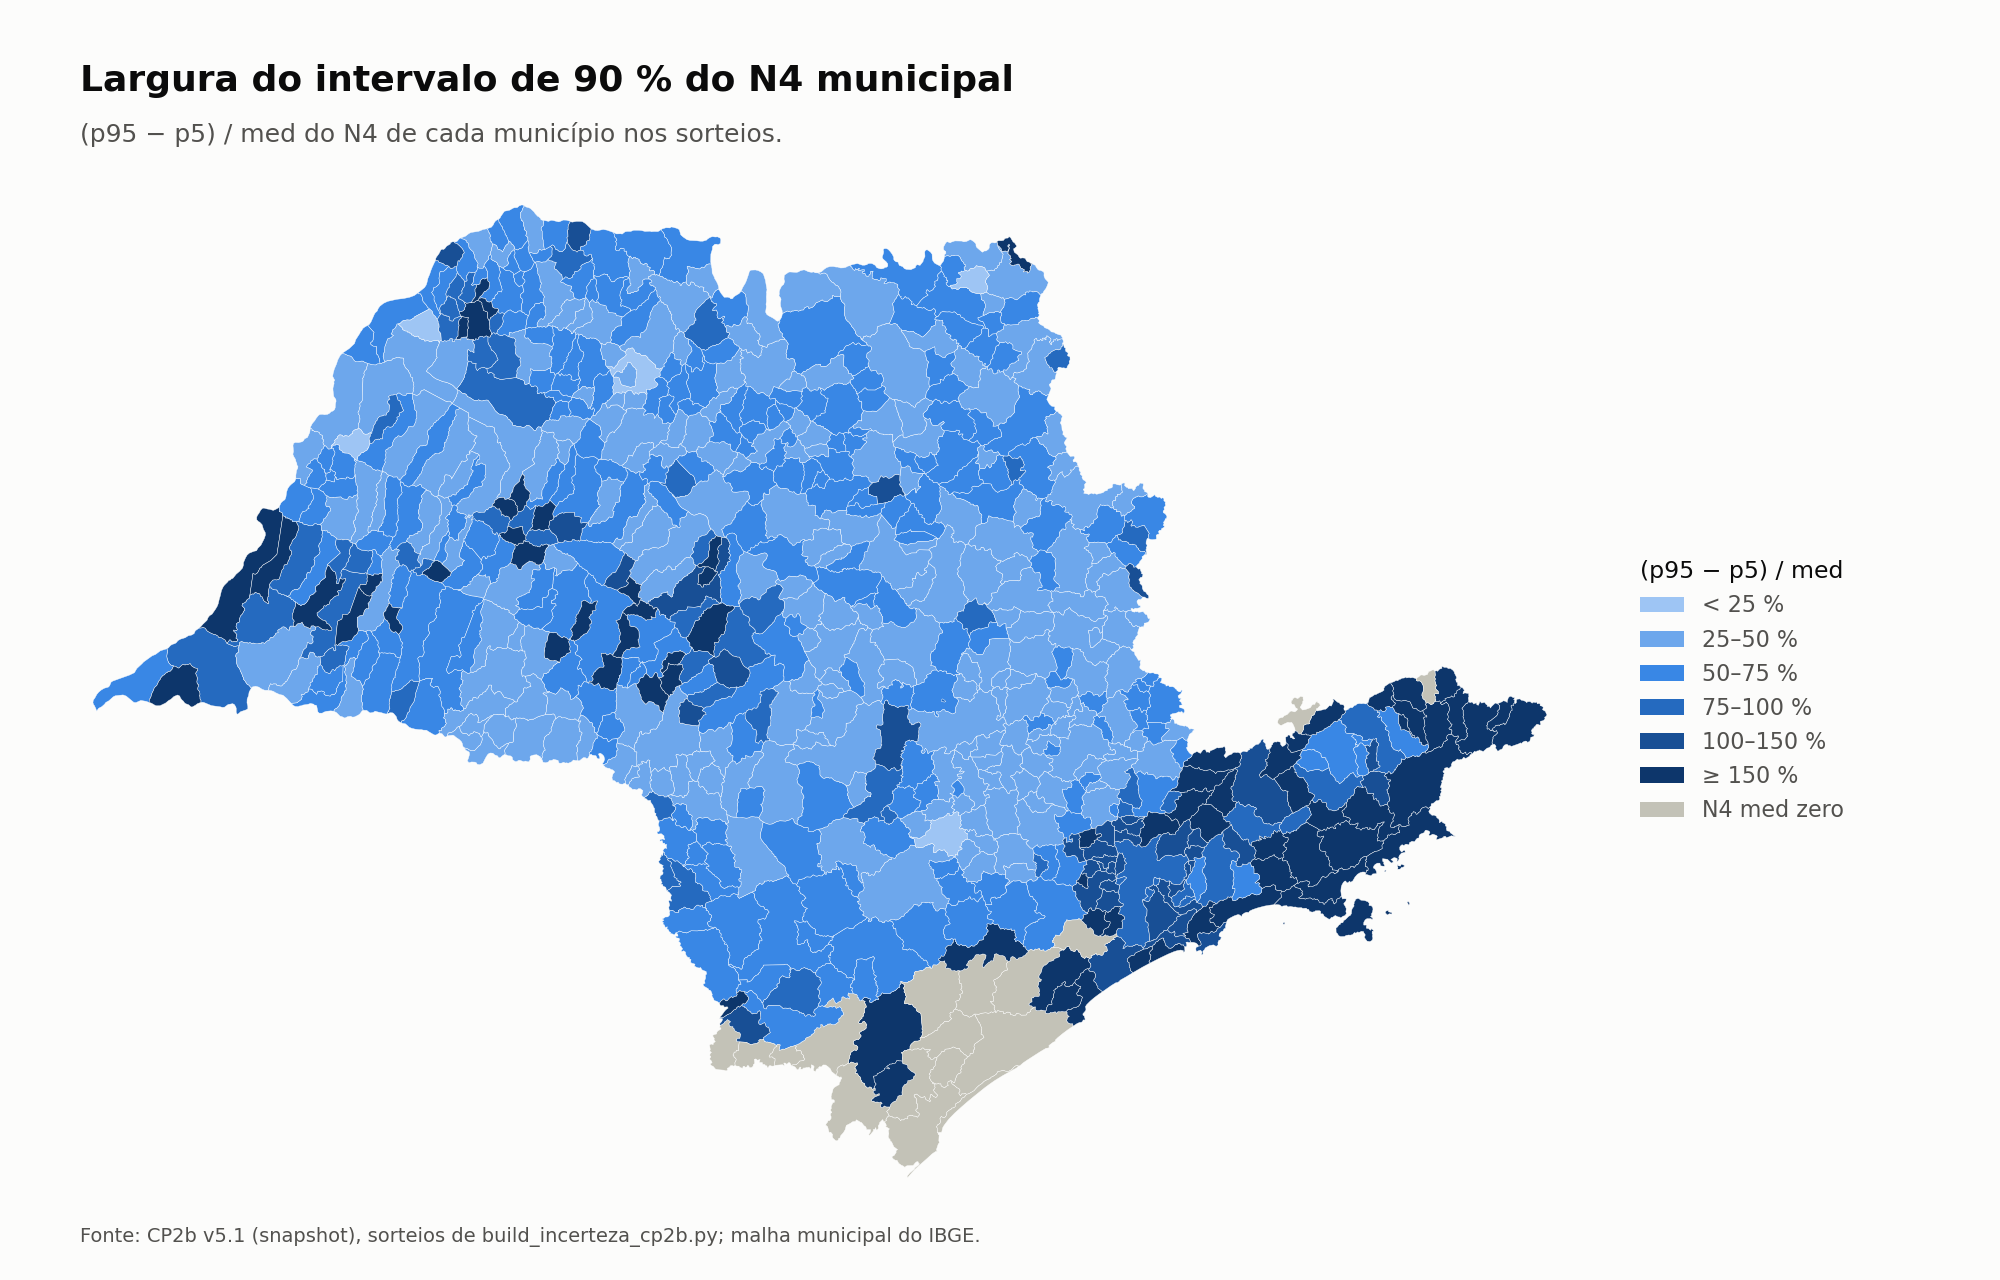
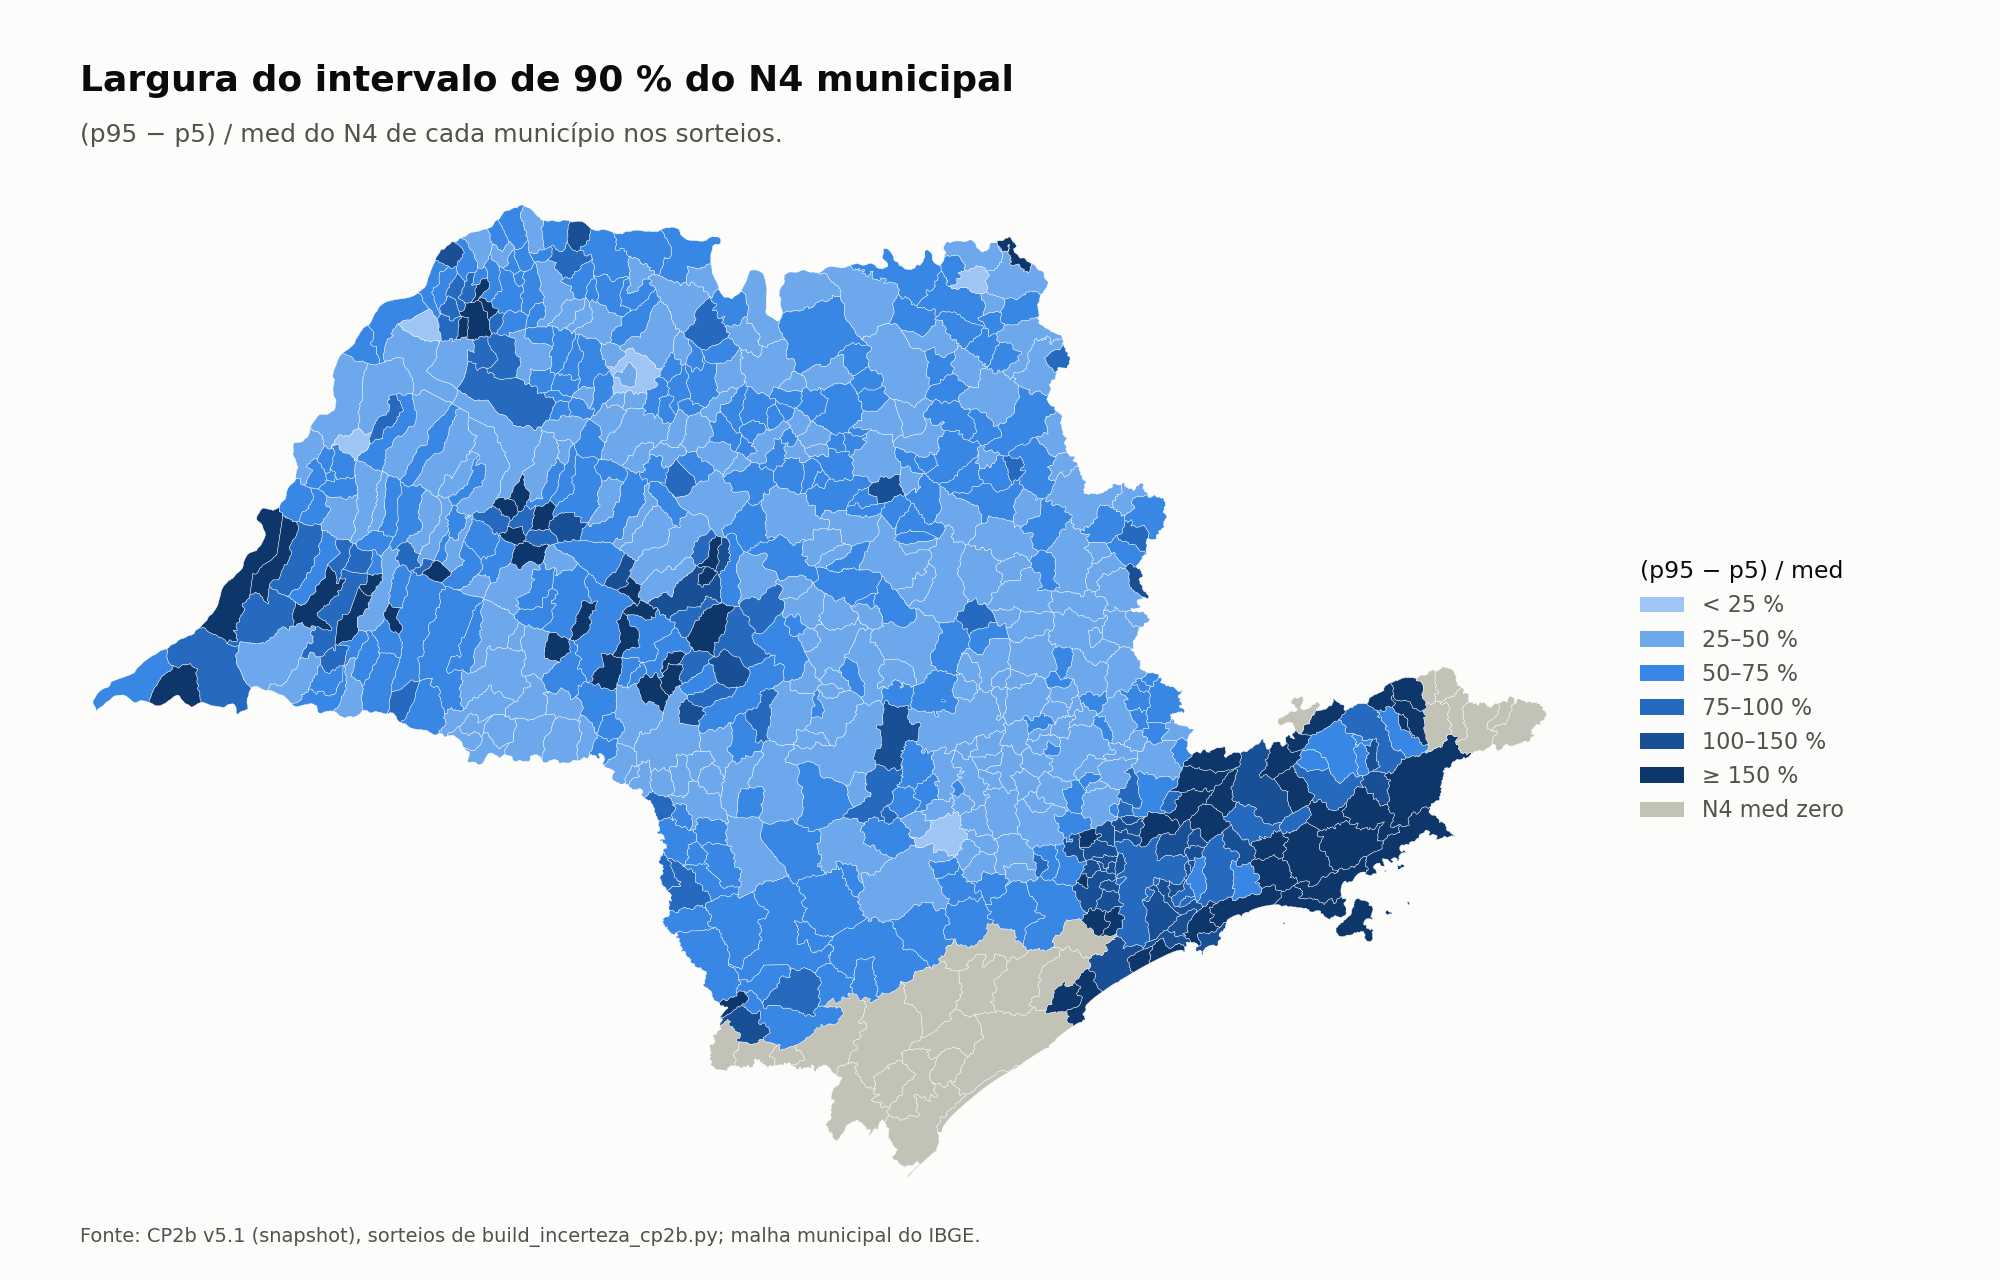
Diagnóstico do N4 zero, incerteza com parâmetros correlacionados e mapas corrigidos

Changed region(s): [[0.465, 0.7188, 0.558, 0.7812], [0.713, 0.5312, 0.775, 0.5938], [0.403, 0.7812, 0.465, 0.875]]

diff --git a/outputs/diagnostico_n4_zero/RELATORIO.md b/outputs/diagnostico_n4_zero/RELATORIO.md
@@ -1,0 +1,61 @@
+# Onde o CP2b v5.1 zera o N4 de um município
+
+> Snapshot v5.1, cenário med; volumes em milhões de Nm³ de CH₄ por ano. Para cada município com N4 zero, a primeira etapa da cascata cujo total é zero. Nada aqui muda a plataforma.
+
+26 municípios com N4 med zero. Onde zeram:
+
+- N4 = 0: FS × FL zero (FL espacial): 26
+
+| Município | Região | N1 | N3a | U | N3 | N4 | Onde zera | N4 no máx |
+|---|---|---:|---:|---:|---:|---:|---|---:|
+| Bananal | São José dos Campos | 4,98 | 0,61 | 0,01 | 0,60 | 0,00 | N4 = 0: FS × FL zero (FL espacial) | 2,93 |
+| Silveiras | São José dos Campos | 3,37 | 0,43 | 0,02 | 0,41 | 0,00 | N4 = 0: FS × FL zero (FL espacial) | 2,18 |
+| Areias | São José dos Campos | 2,61 | 0,25 | 0,00 | 0,25 | 0,00 | N4 = 0: FS × FL zero (FL espacial) | 1,33 |
+| São José do Barreiro | São José dos Campos | 2,47 | 0,44 | 0,01 | 0,43 | 0,00 | N4 = 0: FS × FL zero (FL espacial) | 1,65 |
+| Registro | Sorocaba | 2,26 | 0,39 | 0,00 | 0,39 | 0,00 | N4 = 0: FS × FL zero (FL espacial) | 1,33 |
+| São Bento do Sapucaí | São José dos Campos | 2,00 | 0,24 | 0,05 | 0,19 | 0,00 | N4 = 0: FS × FL zero (FL espacial) | 1,05 |
+| Queluz | São José dos Campos | 1,82 | 0,28 | 0,03 | 0,25 | 0,00 | N4 = 0: FS × FL zero (FL espacial) | 1,12 |
+| Lavrinhas | São José dos Campos | 1,69 | 0,21 | 0,03 | 0,18 | 0,00 | N4 = 0: FS × FL zero (FL espacial) | 0,93 |
+| Eldorado | Sorocaba | 1,63 | 0,14 | 0,00 | 0,14 | 0,00 | N4 = 0: FS × FL zero (FL espacial) | 0,67 |
+| Cajati | Sorocaba | 1,50 | 0,36 | 0,00 | 0,36 | 0,00 | N4 = 0: FS × FL zero (FL espacial) | 1,01 |
+| Jacupiranga | Sorocaba | 1,41 | 0,39 | 0,00 | 0,39 | 0,00 | N4 = 0: FS × FL zero (FL espacial) | 1,37 |
+| Iguape | Sorocaba | 1,40 | 0,44 | 0,00 | 0,44 | 0,00 | N4 = 0: FS × FL zero (FL espacial) | 1,16 |
+| Barra do Turvo | Sorocaba | 1,35 | 0,06 | 0,00 | 0,06 | 0,00 | N4 = 0: FS × FL zero (FL espacial) | 0,30 |
+| Arapeí | São José dos Campos | 1,35 | 0,18 | 0,01 | 0,18 | 0,00 | N4 = 0: FS × FL zero (FL espacial) | 0,81 |
+| Sete Barras | Sorocaba | 1,31 | 0,16 | 0,00 | 0,16 | 0,00 | N4 = 0: FS × FL zero (FL espacial) | 0,58 |
+| Itaoca | Sorocaba | 1,26 | 0,16 | 0,00 | 0,16 | 0,00 | N4 = 0: FS × FL zero (FL espacial) | 0,69 |
+| Juquiá | Sorocaba | 1,14 | 0,13 | 0,00 | 0,13 | 0,00 | N4 = 0: FS × FL zero (FL espacial) | 0,40 |
+| Ribeira | Sorocaba | 0,97 | 0,12 | 0,00 | 0,12 | 0,00 | N4 = 0: FS × FL zero (FL espacial) | 0,19 |
+| Pariquera-Açu | Sorocaba | 0,80 | 0,20 | 0,00 | 0,20 | 0,00 | N4 = 0: FS × FL zero (FL espacial) | 0,47 |
+| Miracatu | Sorocaba | 0,72 | 0,17 | 0,00 | 0,17 | 0,00 | N4 = 0: FS × FL zero (FL espacial) | 0,52 |
+| Cananéia | Sorocaba | 0,61 | 0,29 | 0,00 | 0,29 | 0,00 | N4 = 0: FS × FL zero (FL espacial) | 0,67 |
+| Itapirapuã Paulista | Sorocaba | 0,51 | 0,11 | 0,00 | 0,11 | 0,00 | N4 = 0: FS × FL zero (FL espacial) | 0,30 |
+| Iporanga | Sorocaba | 0,37 | 0,06 | 0,00 | 0,06 | 0,00 | N4 = 0: FS × FL zero (FL espacial) | 0,09 |
+| Juquitiba | São Paulo | 0,31 | 0,16 | 0,10 | 0,06 | 0,00 | N4 = 0: FS × FL zero (FL espacial) | 0,33 |
+| Pedro de Toledo | São Paulo | 0,24 | 0,05 | 0,01 | 0,04 | 0,00 | N4 = 0: FS × FL zero (FL espacial) | 0,10 |
+| Ilha Comprida | Sorocaba | 0,16 | 0,09 | 0,00 | 0,09 | 0,00 | N4 = 0: FS × FL zero (FL espacial) | 0,23 |
+
+## Por substrato, somando esses municípios
+
+| Substrato | N1 | N3 | Maior FS × FL | Onde zera (linhas) |
+|---|---:|---:|---:|---|
+| BOV_PASTO_MISTO | 26,30 | 0,00 | 0,637 | N2 = 0 24 |
+| BOV_LEITE | 5,31 | 2,66 | 0,000 | N4 = 0 24 |
+| RSU_ORGANICO | 3,33 | 1,89 | 0,000 | N4 = 0 26 |
+| PALHA_MILHO | 0,82 | 0,31 | 0,000 | N4 = 0 22 |
+| LODO_ETE | 0,82 | 0,12 | 0,835 | N2 = 0 14; N4 = 0 12 |
+| PALHA | 0,54 | 0,20 | 0,000 | N4 = 0 17 |
+| PODA_URBANA | 0,45 | 0,20 | 0,000 | N4 = 0 26 |
+| SUINOS | 0,27 | 0,23 | 0,000 | N4 = 0 24 |
+| AVES_POSTURA | 0,17 | 0,11 | 0,926 | N2 = 0 2; N4 = 0 19 |
+| AVES_CORTE | 0,10 | 0,06 | 0,924 | N2 = 0 2; N4 = 0 20 |
+| PALHA_SOJA | 0,08 | 0,03 | 0,000 | N4 = 0 3 |
+| BOV_CONFINADO | 0,07 | 0,04 | 0,000 | N4 = 0 2 |
+| CASCA_CAFE | 0,00 | 0,00 | 0,000 | N4 = 0 8 |
+
+## Como ler
+
+- "N4 = 0: FS × FL zero" com N3 positivo quer dizer que o resíduo existe e sobra depois do uso existente, mas o CP2b não conta planta ali: é o FL espacial, escolha de método.
+- "N3 = 0" quer dizer que o uso existente leva todo o N3a; "N2 = 0" ou "N3a = 0", que a premissa de coleta ou de uso concorrente zera o substrato.
+- A coluna "N4 no máx" diz se o município volta a ter N4 no cenário máximo do CP2b.
+

diff --git a/outputs/incerteza_correlacao/RELATORIO.md b/outputs/incerteza_correlacao/RELATORIO.md
@@ -1,0 +1,34 @@
+# Incerteza do N4 do CP2b v5.1 com parâmetros correlacionados
+
+> 20000 sorteios por configuração; volumes em milhões de Nm³ de CH₄ por ano. O mesmo modelo de `build_incerteza_cp2b.py` (que reproduz o mín, o med e o máx do snapshot), com grupos de parâmetros sorteados juntos por uma cópula gaussiana de correlação ρ. Cada parâmetro mantém a sua triangular (mín, med, máx) do CP2b; muda só o quanto eles andam juntos. Nada aqui muda a plataforma.
+
+N4 med do CP2b: 5.971,7. Faixa mín–máx do snapshot: 1.882,6–15.576,9.
+
+## 1. Intervalo de 90 % do N4 do estado
+
+| Estrutura | O que anda junto | ρ | p5 | p50 | p95 | p5–p95 contra o med | Spearman p5 | Top 50 com ≥ 90 % |
+|---|---|---:|---:|---:|---:|---|---:|---:|
+| independente | cada parâmetro sozinho | 0,0 | 5.129,8 | 5.932,7 | 6.886,7 | -14,1 % a +15,3 % | 0,989 | 44 de 50 |
+| substrato | todos os parâmetros de um substrato juntos | 0,5 | 4.760,7 | 6.104,2 | 7.899,6 | -20,3 % a +32,3 % | 0,977 | 37 de 50 |
+| substrato | todos os parâmetros de um substrato juntos | 1,0 | 4.559,6 | 6.298,1 | 8.755,6 | -23,6 % a +46,6 % | 0,965 | 35 de 50 |
+| elemento | o mesmo elemento em todos os substratos (todos os BMP, todos os FC, …) | 0,5 | 4.691,2 | 5.926,1 | 7.369,0 | -21,4 % a +23,4 % | 0,991 | 45 de 50 |
+| elemento | o mesmo elemento em todos os substratos (todos os BMP, todos os FC, …) | 1,0 | 4.411,3 | 5.905,1 | 7.738,0 | -26,1 % a +29,6 % | 0,991 | 46 de 50 |
+| cana | palha, bagaço, torta e vinhaça juntos; o resto independente | 1,0 | 3.448,8 | 5.905,5 | 10.176,6 | -42,2 % a +70,4 % | 0,979 | 44 de 50 |
+| tudo | todos juntos | 0,5 | 3.411,5 | 5.960,4 | 9.752,1 | -42,9 % a +63,3 % | 0,984 | 44 de 50 |
+| tudo | todos juntos | 1,0 | 2.691,7 | 5.953,4 | 11.815,2 | -54,9 % a +97,9 % | 0,976 | 44 de 50 |
+
+## 2. Conferência
+
+| Checagem | Resultado | Detalhe |
+|---|---|---|
+| independente reproduz o p5 e o p95 de build_incerteza_cp2b (±1 %) | ok | maior desvio 0,12 % |
+| tudo, ρ = 1: p5 e p95 = N4 com tudo no quantil 5 % e 95 % (±1 %) | ok | 2.705,1–11.764,6 mi; maior desvio 0,49 % |
+| quantil 0 e 1 de tudo = faixa mín–máx do snapshot (±0,1 %) | ok | 1.882,6–15.576,9 mi contra 1.882,6–15.576,9 |
+
+## Como ler
+
+- ρ = 0 é a leitura de `build_incerteza_cp2b.py`. Com ρ = 1 num grupo, o grupo inteiro fica no mesmo quantil das suas faixas em cada sorteio; tudo com ρ = 1 vai de ponta a ponta da faixa mín–máx do CP2b.
+- `elemento` é a correlação mais defensável para o BMP (o mesmo método de laboratório) e para FC, FS e FL (a mesma leitura da definição); `substrato` é a correlação de quem tira todos os fatores de um substrato da mesma fonte; `cana` mede só o peso de a cana andar junta.
+- O Spearman p5 e o top 50 dizem se o ranking municipal aguenta a correlação: quando tudo sobe ou desce junto, o ranking tende a ficar mais estável que o total, porque os municípios andam juntos.
+- O intervalo de cada estrutura é o que se tem se aquela correlação for verdadeira; não há aqui uma estimativa de qual ρ é o real.
+

diff --git a/outputs/mapas_incerteza/MAPAS.md b/outputs/mapas_incerteza/MAPAS.md
@@ -10,7 +10,7 @@
 | `mapa_cenarios.png` | N4 do cenário contra o med, município a município, um painel por cenário |
 
 Municípios no ranking: 645; com polígono na malha: 645.
-N4 med zero: 17 municípios (por região intermediária: Sorocaba 14; São José dos Campos 2; São Paulo 1).
+N4 med zero: 27 municípios (por região intermediária: Sorocaba 17; São José dos Campos 8; São Paulo 2).
 
 Na fronteira do top 50 (entre 10 % e 90 % de chance): 13 municípios.
 
@@ -18,17 +18,17 @@ Na fronteira do top 50 (entre 10 % e 90 % de chance): 13 municípios.
 
 | Painel | Cenário | Municípios com queda > 5 % | Com alta > 5 % |
 |---|---|---:|---:|
-| leite_g | g do bovino de leite = excreção medida | 0 | 244 |
-| leite_fc1 | g do leite já é a fração coletável: FC = 1 | 0 | 127 |
+| leite_g | g do bovino de leite = excreção medida | 0 | 235 |
+| leite_fc1 | g do leite já é a fração coletável: FC = 1 | 0 | 118 |
 | confinado_ms | matéria orgânica fecal do confinado = medida | 23 | 0 |
 | confinado_fc | FC do confinado = 0,9 (coleta no alojamento) | 0 | 15 |
 | pasto_g | g do bovino de pasto = inventário nacional | 0 | 0 |
 | citros_fco | FCo do bagaço de laranja = sobra após a peletização | 11 | 0 |
 | palha_fs | FS da palha de cana = massa após decomposição no solo | 371 | 0 |
 | bagaco_bmp | BMP do bagaço de cana = medido (bruto) | 0 | 110 |
-| soja_bmp | BMP da palha de soja = medido (bruto) | 113 | 0 |
-| literatura_g_total | Toda a literatura, g do leite = excreção total | 308 | 151 |
-| literatura_g_coletavel | Toda a literatura, g do leite = fração coletável (FC = 1) | 357 | 105 |
+| soja_bmp | BMP da palha de soja = medido (bruto) | 112 | 0 |
+| literatura_g_total | Toda a literatura, g do leite = excreção total | 308 | 142 |
+| literatura_g_coletavel | Toda a literatura, g do leite = fração coletável (FC = 1) | 357 | 96 |
 
 ## Como ler
 
